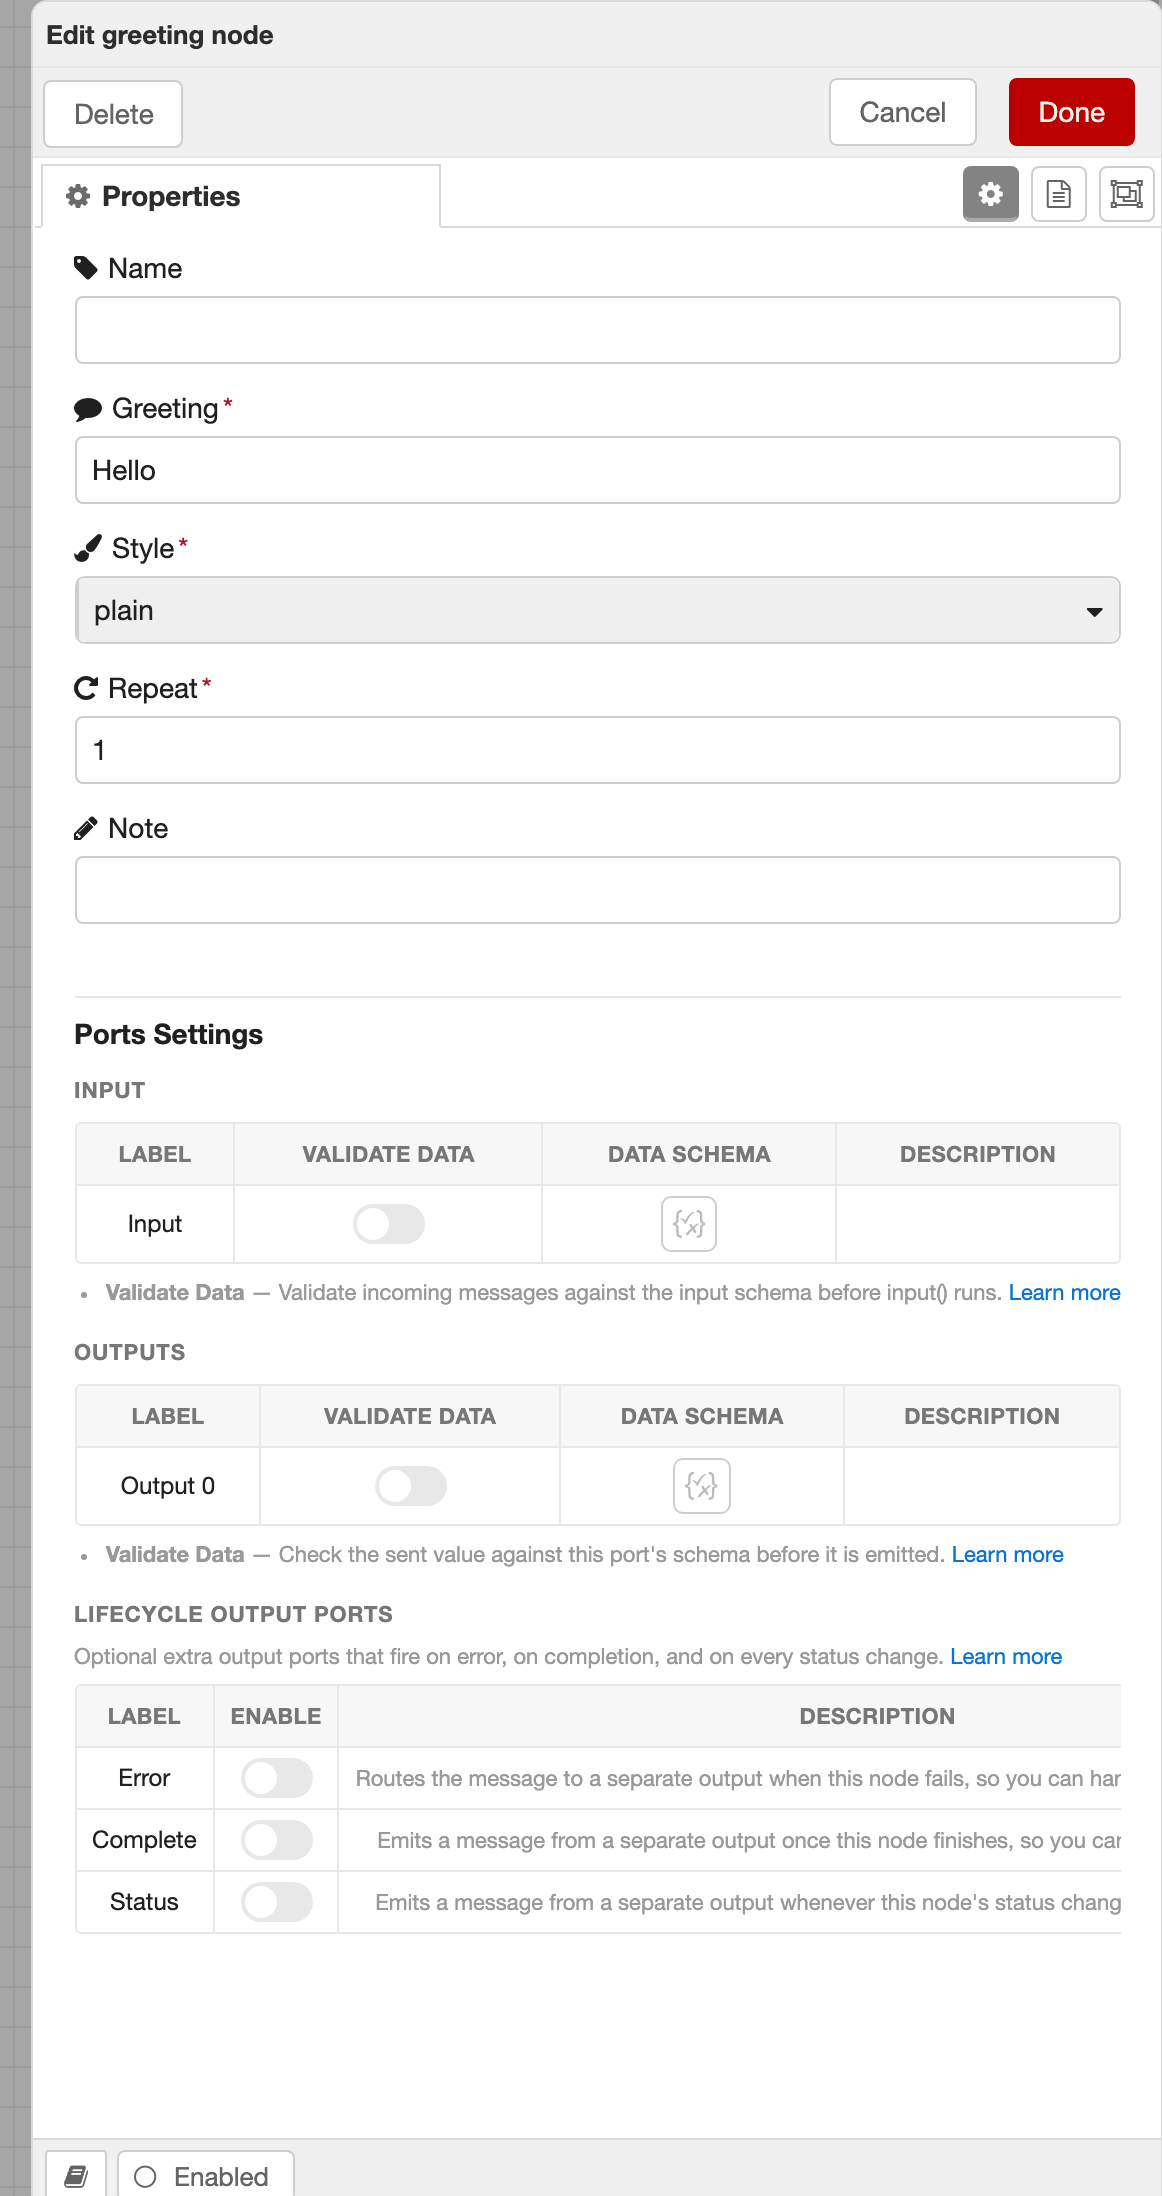
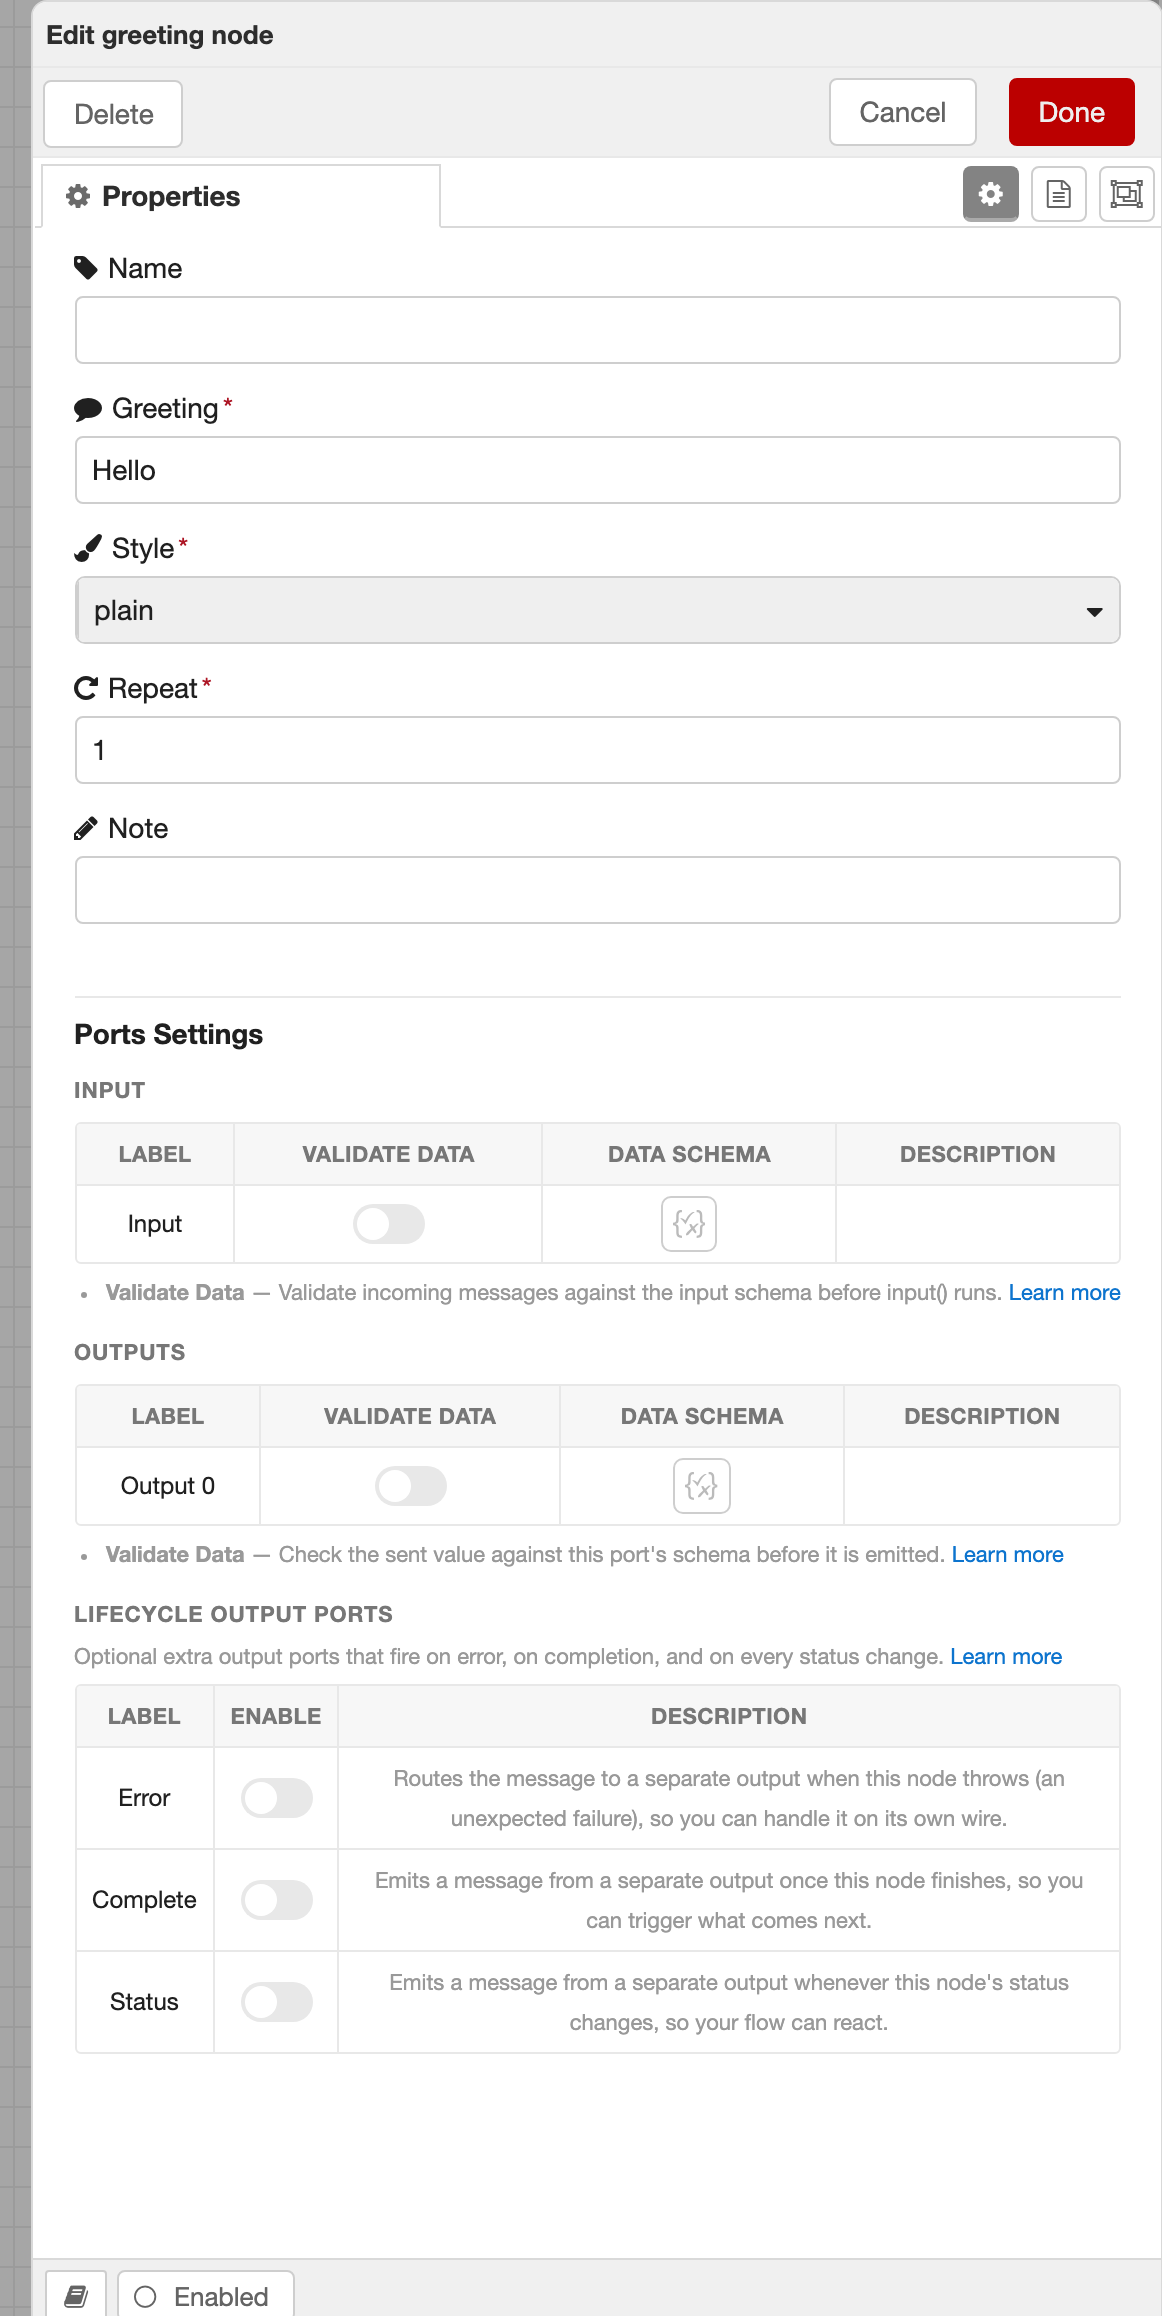
fix(e2e): capture the FULL node form (lifecycle ports + wrapped descriptions)
The form screenshots clipped the Lifecycle Output Ports: the guide image
(editor-form.png) used a raw tray.screenshot() that cut at the viewport fold, and
the README image (greeting-form.png) ran the single-line port-table descriptions
off the right edge. captureForm now injects a capture-time style that WRAPS the
`.nrg-cell-desc` cells (and drops the horizontal table scroll), so its
viewport-grow logic frames the whole form. Point editor-form.png's capture at
captureForm too, and regenerate both images.

diff --git a/src/sdk/test/client/e2e/index.ts b/src/sdk/test/client/e2e/index.ts
@@ -179,7 +179,18 @@ export class NodeRedEditor {
     await this.dismissNotifications();
     const tray = this.page.locator(".red-ui-tray").last();
     await tray.waitFor({ state: "visible", timeout: 10_000 });
-    await this.page.waitForTimeout(250);
+    // Full-form shot: the ports-settings tables keep their DESCRIPTIONS on one
+    // line and scroll horizontally inside the fixed-width tray, so the text runs
+    // off the right edge of a screenshot. For the capture, let those cells WRAP
+    // and drop the horizontal scroll so nothing is clipped; the vertical-fit
+    // logic below then grows the shot to the (now taller) full form.
+    await this.page.addStyleTag({
+      content: `
+        .nrg-table-scroll { overflow-x: visible !important; }
+        .nrg-cell-desc { white-space: normal !important; }
+      `,
+    });
+    await this.page.waitForTimeout(300);
 
     const measure = (): Promise<number> =>
       tray.evaluate((el) => {

diff --git a/tests/sdk/client/e2e/node-red-form.test.ts b/tests/sdk/client/e2e/node-red-form.test.ts
@@ -1,3 +1,4 @@
+import fs from "node:fs";
 import { describe, test, expect, beforeAll, afterAll, afterEach } from "vitest";
 import {
   chromium,
@@ -345,10 +346,12 @@ describe.each(BROWSERS)(
       );
       // the Outputs table renders one row for the single base output port
       expect(await tray.locator(".nrg-outputs tbody tr").count()).toBe(1);
-      // capture the basic node form once for the docs
+      // capture the basic node form once for the docs — captureForm grows the
+      // viewport and wraps the port-table descriptions so the WHOLE form (the
+      // Lifecycle Output Ports rows included) is in-frame, not clipped at the fold.
       if (name === "chromium") {
-        await editor.page.waitForTimeout(300);
-        await tray.screenshot({ path: "docs/public/editor-form.png" });
+        const shot = await editor.captureForm("editor-form");
+        fs.copyFileSync(shot, "docs/public/editor-form.png");
       }
       await editor.clickCancel();
     });